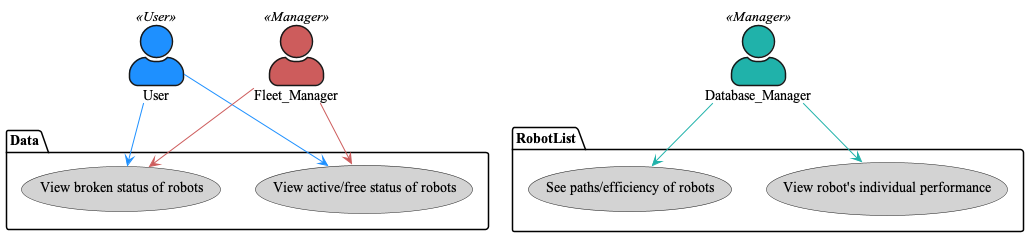
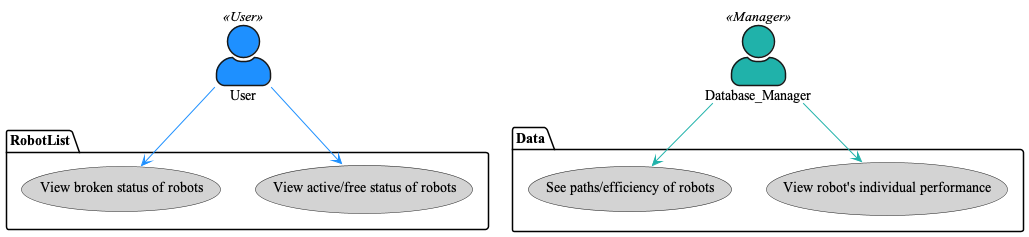
Updated use cases 1,2,3 to be clear on actor roles

diff --git a/docs/design/usecases/UseCases.md b/docs/design/usecases/UseCases.md
@@ -1,14 +1,14 @@
 ## File for our usecases
 ![Use case 1](uc1.png)
-This use case is about robot information and data. It demonstrates how the user and fleet manager access robots' information and how the database manager organizes robots' data in the backend.
+This use case is about robot information and data. It demonstrates how the users access robots' information and how the database manager organizes robots' data in the backend.
 
 
 ![Use case 2](uc2.png)
-This use case is about sending the robots to perform tasks. It demonstrates how the user uses the command-line interface to interact with the robots and how the fleet manager communicates with the robots.
+This use case is about sending the robots to perform tasks. It demonstrates how the user uses the command-line interface to interact with the robots and how the user communicates with the robots.
 
 
 ![Use case 3](uc3.png)
-This use case is about the building the robots operate in and where to send the robots.
+This use case is about the building the robots operate in, and where to send the robots. The building manager is not a user because it only is setting restrictions on where the robots can go. The fleet_manager is a specific type of user who has the ability to take control of the robots if needed.
 
 
 * Henry: I wrote user stories and added some of them to the cards with descriptions. We all talked through how to create the different use case diagrams in class. I also coded usecase 1.
